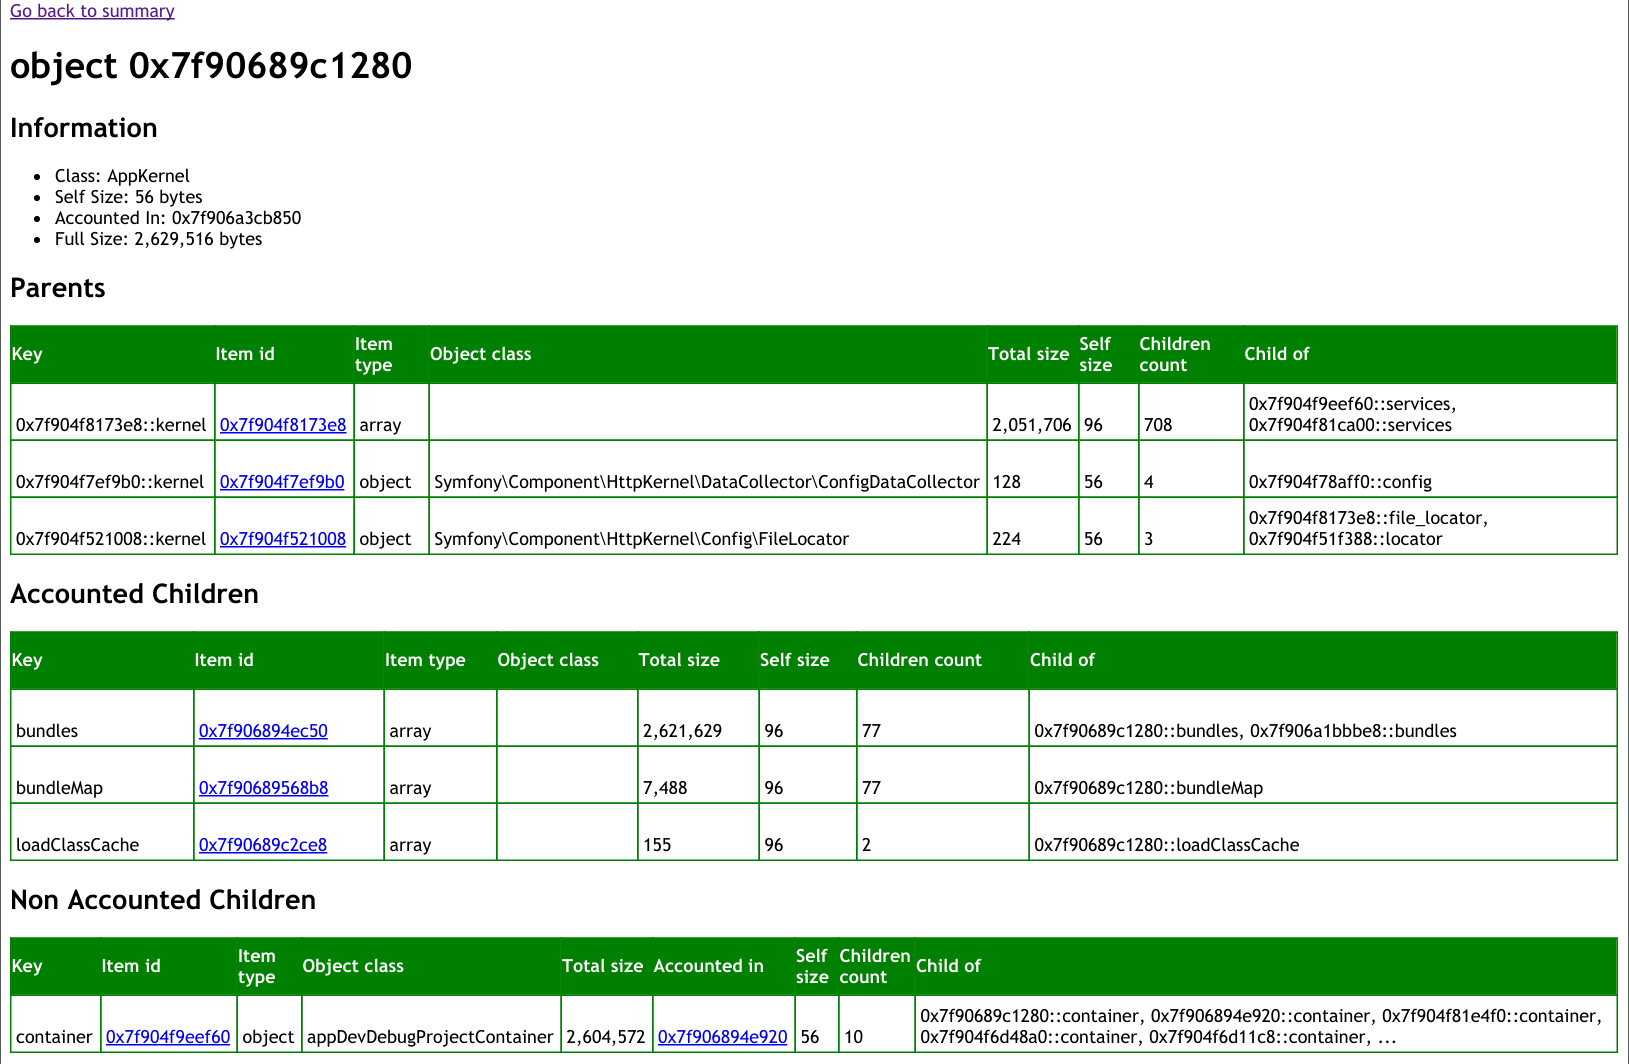
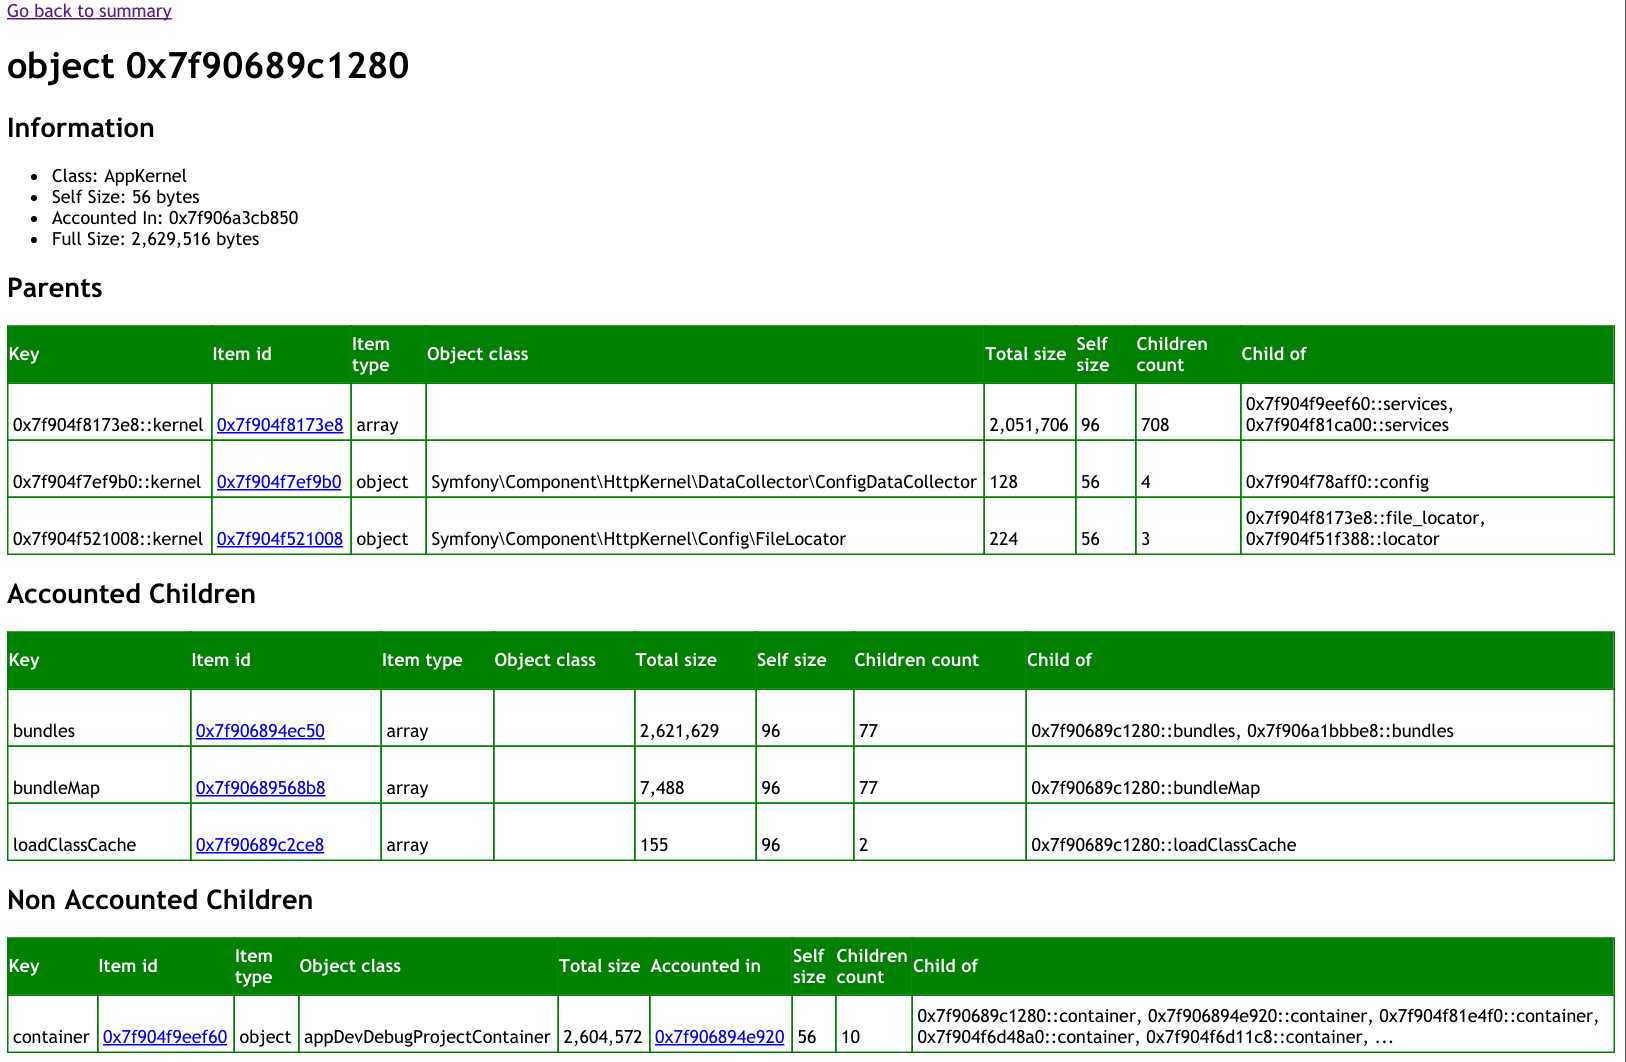
Fixes images

diff --git a/README.md b/README.md
@@ -1,8 +1,8 @@
 MEMINFO
 =======
-PHP Meminfo is a very simple PHP extension that gives you insight on the current content of the memory in PHP.
+PHP Meminfo is a PHP extension that gives you insights on the PHP memory content.
 
-It's main goal is to understand memory leaks, but can be useful as well to get information on the behaviour of your application by looking at what data it produces in memory.
+Its main goal is to help you understand memory leaks, but by looking at data present in memory, you can better understand your application behaviour.
 
 One of the main source of inspiration for this tool is the Java jmap tool with the -histo option (see `man jmap`).
 
@@ -16,105 +16,44 @@ Compiled and tested on:
 
 Compilation instructions
 ------------------------
-MemInfo can be compiled outside PHP itself.
-
-You will need the phpize command. It can be installed on a Debian based system by:
-apt-get install php5-dev
+You will need the `phpize` command. It can be installed on a Debian based system by:
+```bash
+$ apt-get install php5-dev
+```
 
 Once you have this command, follow this steps:
 
 ## Compilation
 From the root of the extension directory:
 
-    phpize
-    ./configure --enable-meminfo
-    make
-    make install
+```bash
+$ phpize
+$ ./configure --enable-meminfo
+$ make
+$ make install
+```
 
 ## Enabling the extension
-Add the following line to your php.ini or to a custom file inside /etc/php5/conf.d/ for Debian based system.
-    `extension=meminfo.so`
+Add the following line to your `php.ini`:
 
-Restart your webserver.
-
-Check the PHP Info output and look for the MemInfo data. If you can find it, installation has been successful.
-
-To see the PHP Info output, just create a page calling the phpinfo(); function, and load it from your browser, or call php -i from command line.
+```ini
+extension=meminfo.so
+```
 
 Usage
 -----
-All meminfo functions take a stream handle as a parameter. It allows you to specify a file (if needed with a variable name identifying your context), as well as to use standard output with the `php://stdout` stream.
+All meminfo functions take a stream handle as a parameter. It allows you to specify a file, as well as to use standard output with the `php://stdout` stream.
 
 ## Exploring Memory usage
-The provided user interface allows you to explore the content of your memory. It will show you the items instanciated, the dependencies between item and the size of each of them.
-
-### Dependencies
-The dependencies are defined in term of parent/child relationships. Relationships can only be carried by arrays and objects.
-When an object has an attribute (or a value in case of array)  pointing to another item, this object or array is considered as
-a parent of the item.
-
-### How memory size is computed
-
-In this interface, you will find two memory size informations: *self size* and *full size*.
-
-#### Self size
-This information is the size of the item itself, not including the size of objects linked.
-
-#### Full size
-The full size is the sum of the sizes of all descendants of the objects.
-
-#### How multi-links are accounted in memory size
-Look at the following code:
-
-```php
-    $parentObject1 = new SplObject();
-    $parentObject2 = new SplObject();
-
-    $childObject = new SplObject();
-
-    $parentObject1->objectA = $childObject;
-
-    $parentObject2->objectA = $childObject;
-```
-
-When suming the full size of `$parentObject1` and `$parentObject2,
-the naive way would be to sum the size of all descendants.
-But this would mean accounting`$childObject`twice.
-
-So for each item, we flag it as *accounted* the first time we take it
-into account when computing a full size object, and *non-accounted* the
-following times. And as an *non-accounted* itme, it's not included in the
-full-size of the object, thus avoiding counted objects twice.
-
-For the previous code example, the final result would be:
-  - parentObject1
-    - size: (self size of parentObject1 + self size of childObject)
-    - accounted children:
-      - childObject
-    - non-accounted children:
-      - *empty*
-  - parentObject2
-    - size: (self size of parentObject2)
-    - accounted children:
-      - *empty*
-    - non-accounted children:
-      - childObject
-
-##### Warning
-"When" a child is accounted can be quite random, as the program cannot know
-how what is the more "meaningful" relationship that should account the child
-instead of a less "meaningful" relationship.
-
-More sophisticated strategy could be implemented in the future to produce a
-more expected result.
+The provided user interface allows you to explore the content of your memory. It will show you the items instanciated, the dependencies between items and the size of each of them.
 
 ### Summary Screen
 The main screen lists the top memory consumers, ordered by their total size.
-[image of doc/images/ui_summary.pnh]
+![summary screen](doc/images/ui_summary.png)
 
 ### Item details Screen
 Clicking on an item brings you to the Item Details Screen.
-[image of doc/images/ui_summary.pnh]
+![summary screen](doc/images/ui_item_details.png)
 
 On this screen, you will see 5 parts:
  - title
@@ -124,12 +63,8 @@ This memory address is used as the unique identifier of the item
  - Information
 Small summary on the item itself, like the class name in case of object and memory size information.
 
-### Limitations
-#### Memory calculations
-The following items are not yet taken into account in memory calculation:
- - classes memory usage
- - array keys memory usage
- - objects attribute name memory usage
+### How memory size is computed
+See [the dedicated documentation](/doc/memory_calculation.md).
 
 ## Object instances count per class
 Display the number of instances per class, ordered descending. Very useful to identify the content of a memory leak.
@@ -157,32 +92,12 @@ The result will provide something similar to the following example (generated at
 Note: It's a good idea to call the `gc_collect_cycles()` function before executing  `meminfo_objects_summary()`, as it will collect dead objects that has not been reclaimed by the ref counter due to circular references. See http://www.php.net/manual/en/features.gc.php for more details.
 
 
-
 ### Examples
 The `examples/` directory at the root of the repository contains more detailed examples.
 ```bash
     $ php examples/objects_summary.php
 ```
 
-## Information on structs size
-Display size in byte of main data structs size in PHP. Will mainly differ between 32bits et 64bits environments.
-
-```php
-
-    meminfo_structs_size(fopen('php://stdout','w'));
-```
-
-It can be useful to understand difference in memory usage between two platforms.
-
-Example Output on 64bits environment:
-
-```
-    Structs size on this platform:
-      Class (zend_class_entry): 568 bytes.
-      Object (zend_object): 32 bytes.
-      Variable (zval): 24 bytes.
-      Variable value (zvalue_value): 16 bytes.
-```
 
 ##List of currently active objects
 Provides a list of live objects with their class and their handle, as well as the total number of active objects and the total number of allocated object buckets.
@@ -207,6 +122,25 @@ The `examples/` directory at the root of the repository contains more detailed e
 
     php examples/objects_list.php
 
+## Information on structs size
+Display size in byte of main data structs size in PHP. Will mainly differ between 32bits et 64bits environments.
+
+```php
+    meminfo_structs_size(fopen('php://stdout','w'));
+```
+
+It can be useful to understand difference in memory usage between two platforms.
+
+Example Output on 64bits environment:
+
+```
+    Structs size on this platform:
+      Class (zend_class_entry): 568 bytes.
+      Object (zend_object): 32 bytes.
+      Variable (zval): 24 bytes.
+      Variable value (zvalue_value): 16 bytes.
+```
+
 Usage in production
 -------------------
 PHP Meminfo can be used in production, as it does not have any impact on performances outside of the call to the `meminfo` functions.
@@ -220,6 +154,16 @@ With the trace feature and the memory delta option (tool see XDebug documentatio
 
  - PHP Memprof (https://github.com/arnaud-lb/php-memory-profiler)
 Provides aggregated data about memory usage by functions. Far less resource intensive than a full trace from XDebug.
+
+Troubleshooting
+---------------
+
+## "Call to undefined function" when calling meminfo_* functions
+It certainly means the extension is not enabled.
+
+Check the PHP Info output and look for the MemInfo data.
+
+To see the PHP Info output, just create a page calling the `phpinfo();` function, and load it from your browser, or call `php -i` from command line.
 
 Credits
 -------

diff --git a/doc/memory_calculation.md b/doc/memory_calculation.md
@@ -1,0 +1,70 @@
+Memory calculation
+==================
+
+# Dependencies
+The dependencies are defined in term of parent/child relationships. Relationships can only be carried by arrays and objects.
+When an object has an attribute (or a value in case of array)  pointing to another item, this object or array is considered as
+a parent of the item.
+
+# How memory size is computed
+
+In this interface, you will find two memory size informations: *self size* and *full size*.
+
+## Self size
+This information is the size of the item itself, not including the size of objects linked.
+
+## Full size
+The full size is the sum of the sizes of all descendants of the objects.
+
+## How multi-links are accounted in memory size
+Look at the following code:
+
+```php
+    $parentObject1 = new SplObject();
+    $parentObject2 = new SplObject();
+
+    $childObject = new SplObject();
+
+    $parentObject1->objectA = $childObject;
+
+    $parentObject2->objectA = $childObject;
+```
+
+When suming the full size of `$parentObject1` and `$parentObject2,
+the naive way would be to sum the size of all descendants.
+But this would mean accounting`$childObject`twice.
+
+So for each item, we flag it as *accounted* the first time we take it
+into account when computing a full size object, and *non-accounted* the
+following times. And as an *non-accounted* itme, it's not included in the
+full-size of the object, thus avoiding counted objects twice.
+
+For the previous code example, the final result would be:
+  - parentObject1
+    - size: (self size of parentObject1 + self size of childObject)
+    - accounted children:
+      - childObject
+    - non-accounted children:
+      - *empty*
+  - parentObject2
+    - size: (self size of parentObject2)
+    - accounted children:
+      - *empty*
+    - non-accounted children:
+      - childObject
+
+### Warning
+"When" a child is accounted can be quite random, as the program cannot know
+how what is the more "meaningful" relationship that should account the child
+instead of a less "meaningful" relationship.
+
+More sophisticated strategy could be implemented in the future to produce a
+more expected result.
+
+# Limitations
+## Memory calculations
+The following items are not yet taken into account in memory calculation:
+ - classes memory usage
+ - array keys memory usage
+ - objects attribute name memory usage
+
